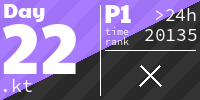
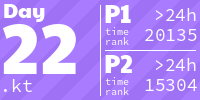
Year 2022 / Day 22: Monkey Map 🗺

diff --git a/AoC/src/Year2022/Day22.kt b/AoC/src/Year2022/Day22.kt
@@ -6,12 +6,14 @@ import Position
 import direction
 import i
 import j
+import moveTo
 import point
 import readInput
 import turnLeft
 import turnRight
 import kotlin.collections.List
 import kotlin.collections.buildList
+import kotlin.collections.count
 import kotlin.collections.first
 import kotlin.collections.forEach
 import kotlin.collections.indexOfFirst
@@ -20,32 +22,121 @@ import kotlin.collections.map
 import kotlin.collections.maxOf
 import kotlin.collections.takeWhile
 import kotlin.collections.toTypedArray
+import kotlin.math.roundToInt
+import kotlin.math.sqrt
 
 fun main() {
+
+    fun parseTiles(input: List<String>): Array<Array<Tile>> {
+        val rowSize = input.maxOf(String::length)
+        return input.map { line ->
+            Array(rowSize) { i ->
+                if (i < line.length) {
+                    when (line[i]) {
+                        '.' -> Tile.Open
+                        '#' -> Tile.Wall
+                        else -> Tile.Space
+                    }
+                } else {
+                    Tile.Space
+                }
+            }
+        }.toTypedArray()
+    }
+
+    fun parsePath(input: String): List<Step> {
+        return buildList {
+            val currentMove = StringBuilder()
+            input.forEach { ch ->
+                if (ch.isDigit()) {
+                    currentMove.append(ch)
+                } else {
+                    add(Step.Move(currentMove.toString().toInt()))
+                    currentMove.clear()
+                    when (ch) {
+                        'L' -> add(Step.LTurn)
+                        'R' -> add(Step.RTurn)
+                    }
+                }
+            }
+            if (currentMove.isNotEmpty()) {
+                add(Step.Move(currentMove.toString().toInt()))
+            }
+        }
+    }
 
     fun Position.turnLeft(): Position = copy(second = direction.turnLeft())
     fun Position.turnRight(): Position = copy(second = direction.turnRight())
     fun Position.moveTo(point: Point): Position = copy(first = point)
+    fun Position.next(): Position = copy(first = point moveTo direction)
     fun Direction.value() = when (this) {
         Direction.Right -> 0
         Direction.Down -> 1
         Direction.Left -> 2
         Direction.Up -> 3
     }
+
     fun Position.calc(): Long {
         return 1000L * (point.i + 1) + 4 * (point.j + 1) + direction.value()
     }
 
     fun part1(input: List<String>): Long {
-        val map = Map.parse(input.takeWhile(String::isNotBlank))
-        val path = Path.parse(input.last())
-        var position = Position(map.start(), Direction.Right)
+        val map = parseTiles(input.takeWhile(String::isNotBlank))
+        val steps = parsePath(input.last())
+        var position = Position(0 to map.first().indexOfFirst(Tile::isNotSpace), Direction.Right)
 
-        path.steps.forEach { step ->
+        steps.forEach { step ->
             position = when (step) {
                 is Step.LTurn -> position.turnLeft()
                 is Step.RTurn -> position.turnRight()
-                is Step.Move -> position.moveTo(map.step(position.point, position.direction, step.number))
+                is Step.Move -> {
+                    var current = position
+                    for (s in 0 until step.number) {
+                        val (i, j) = current.point
+                        val next = when (current.direction) {
+                            Direction.Left -> {
+                                val row = map[i]
+                                val rowSize = row.size
+                                var k = (rowSize + j - 1) % rowSize
+                                while (row[k].isSpace) {
+                                    k = (rowSize + k - 1) % rowSize
+                                }
+                                Point(i, k)
+                            }
+                            Direction.Up -> {
+                                val columnSize = map.size
+                                var k = (columnSize + i - 1) % columnSize
+                                while (map[k][j].isSpace) {
+                                    k = (columnSize + k - 1) % columnSize
+                                }
+                                Point(k, j)
+                            }
+                            Direction.Right -> {
+                                val row = map[i]
+                                val rowSize = row.size
+                                var k = (j + 1) % rowSize
+                                while (row[k].isSpace) {
+                                    k = (k + 1) % rowSize
+                                }
+                                Point(i, k)
+                            }
+                            Direction.Down -> {
+                                val columnSize = map.size
+                                var k = (i + 1) % columnSize
+                                while (map[k][j].isSpace) {
+                                    k = (k + 1) % columnSize
+                                }
+                                Point(k, j)
+                            }
+                        }
+                        if (map[next.i][next.j].isOpen) {
+                            current = current.moveTo(next)
+                        } else {
+                            break
+                        }
+                    }
+                    current
+                }
             }
         }
 
@@ -53,107 +144,119 @@ fun main() {
     }
 
     fun part2(input: List<String>): Long {
-        TODO()
+        val map = parseTiles(input.takeWhile(String::isNotBlank))
+        val steps = parsePath(input.last())
+        var position = Position(0 to map.first().indexOfFirst(Tile::isNotSpace), Direction.Right)
+
+        steps.forEach { step ->
+            position = when (step) {
+                is Step.LTurn -> position.turnLeft()
+                is Step.RTurn -> position.turnRight()
+                is Step.Move -> {
+                    var current = position
+                    for (k in 0 until step.number) {
+                        val (i, j) = current.point
+                        val next = when (current.direction) {
+                            Direction.Left -> {
+                                when {
+                                    i in 0..50 && j == 50 -> {
+                                        Position(149 - i to 0, Direction.Right)
+                                    }
+
+                                    i in 50..<100 && j == 50 -> {
+                                        Position(100 to i - 50, Direction.Down)
+                                    }
+
+                                    i in 100..<150 && j == 0 -> {
+                                        Position(149 - i to 50, Direction.Right)
+                                    }
+
+                                    i in 150..<200 && j == 0 -> {
+                                        Position(0 to i - 100, Direction.Down)
+                                    }
+
+                                    else -> current.next()
+                                }
+                            }
+
+                            Direction.Up -> {
+                                when {
+                                    i == 0 && j in 50..<100 -> {
+                                        Position(j + 100 to 0, Direction.Right)
+                                    }
+
+                                    i == 0 && j in 100..<150 -> {
+                                        Position(199 to j - 100, Direction.Up)
+                                    }
+
+                                    i == 100 && j in 0..<50 -> {
+                                        Position(j + 50 to 50, Direction.Right)
+                                    }
+
+                                    else -> current.next()
+                                }
+                            }
+
+                            Direction.Right -> {
+                                when {
+                                    i in 0..<50 && j == 149 -> {
+                                        Position(149 - i to 99, Direction.Left)
+                                    }
+
+                                    i in 50..<100 && j == 99 -> {
+                                        Position(49 to i + 50, Direction.Up)
+                                    }
+
+                                    i in 100..<150 && j == 99 -> {
+                                        Position(149 - i to 149, Direction.Left)
+                                    }
+
+                                    i in 150..<200 && j == 49 -> {
+                                        Position(149 to i - 100, Direction.Up)
+                                    }
+
+                                    else -> current.next()
+                                }
+                            }
+
+                            Direction.Down -> {
+                                when {
+                                    i == 49 && j in 100..<150 -> {
+                                        Position(j - 50 to 99, Direction.Left)
+                                    }
+
+                                    i == 149 && j in 50..<100 -> {
+                                        Position(j + 100 to 49, Direction.Left)
+                                    }
+
+                                    i == 199 && j in 0..<50 -> {
+                                        Position(0 to j + 100, Direction.Down)
+                                    }
+
+                                    else -> current.next()
+                                }
+                            }
+                        }
+                        if (map[next.point.i][next.point.j].isOpen) {
+                            current = next
+                        } else {
+                            break
+                        }
+                    }
+                    current
+                }
+            }
+        }
+
+        return position.calc()
     }
 
     val testInput = readInput("Year2022/Day22_test")
     check(part1(testInput).also { println("part1 test: $it") } == 6032L)
-    //check(part2(testInput).also { println("part2 test: $it") } == 5031L)
 
     val input = readInput("Year2022/Day22")
     println(part1(input))
-    //println(part2(input))
-}
-
-private class Map(private val tiles: Array<Array<Tile>>) {
-    fun start(): Point = 0 to tiles.first().indexOfFirst(Tile::isNotSpace)
-
-    fun step(
-        start: Point,
-        direction: Direction,
-        moves: Int,
-    ): Point {
-        var (i, j) = start
-        for (m in 0 until moves) {
-            val nextPos = when (direction) {
-                Direction.Right -> nextRight(i to j)
-                Direction.Down -> nextDown(i to j)
-                Direction.Left -> nextLeft(i to j)
-                Direction.Up -> nextUp(i to j)
-            }
-            val nextTile = get(nextPos)
-            if (nextTile.isOpen) {
-                i = nextPos.first
-                j = nextPos.second
-            } else {
-                break
-            }
-        }
-        return i to j
-    }
-
-    private fun get(pos: Point) = tiles[pos.first][pos.second]
-
-    private fun nextLeft(from: Point): Point {
-        var (i, j) = from
-        val row = tiles[i]
-        val rowSize = row.size
-        j = (rowSize + j - 1) % rowSize
-        while (row[j].isSpace) {
-            j = (rowSize + j - 1) % rowSize
-        }
-        return i to j
-    }
-
-    private fun nextUp(from: Point): Point {
-        var (i, j) = from
-        val columnSize = tiles.size
-        i = (columnSize + i - 1) % columnSize
-        while (tiles[i][j].isSpace) {
-            i = (columnSize + i - 1) % columnSize
-        }
-        return i to j
-    }
-
-    private fun nextRight(from: Point): Point {
-        var (i, j) = from
-        val row = tiles[i]
-        val rowSize = row.size
-        j = (j + 1) % rowSize
-        while (row[j].isSpace) {
-            j = (j + 1) % rowSize
-        }
-        return i to j
-    }
-
-    private fun nextDown(from: Point): Point {
-        var (i, j) = from
-        val columnSize = tiles.size
-        i = (i + 1) % columnSize
-        while (tiles[i][j].isSpace) {
-            i = (i + 1) % columnSize
-        }
-        return i to j
-    }
-
-    companion object {
-        fun parse(input: List<String>): Map {
-            val rowSize = input.maxOf(String::length)
-            return input.map { line ->
-                Array(rowSize) { i ->
-                    if (i < line.length) {
-                        when (line[i]) {
-                            '.' -> Tile.Open
-                            '#' -> Tile.Wall
-                            else -> Tile.Space
-                        }
-                    } else {
-                        Tile.Space
-                    }
-                }
-            }.toTypedArray().let(::Map)
-        }
-    }
+    println(part2(input))
 }
 
 private enum class Tile {
@@ -162,31 +265,6 @@ private enum class Tile {
     val isNotSpace get() = this != Space
     val isSpace get() = this == Space
     val isOpen get() = this == Open
-}
-
-private data class Path(val steps: List<Step>) {
-    companion object {
-        fun parse(input: String): Path {
-            return buildList {
-                val currentMove = StringBuilder()
-                input.forEach { ch ->
-                    if (ch.isDigit()) {
-                        currentMove.append(ch)
-                    } else {
-                        add(Step.Move(currentMove.toString().toInt()))
-                        currentMove.clear()
-                        when (ch) {
-                            'L' -> add(Step.LTurn)
-                            'R' -> add(Step.RTurn)
-                        }
-                    }
-                }
-                if (currentMove.isNotEmpty()) {
-                    add(Step.Move(currentMove.toString().toInt()))
-                }
-            }.let(::Path)
-        }
-    }
 }
 
 private sealed interface Step {

diff --git a/README.md b/README.md
@@ -80,7 +80,7 @@
   <img src="Media/2023/25.png" width="161px">
 </a>
 <h1 align="center">
-  2022 - 45 ⭐
+  2022 - 46 ⭐
 </h1>
 <a href="AoC/src/Year2022/Day01.kt">
   <img src="Media/2022/01.png" width="161px">
